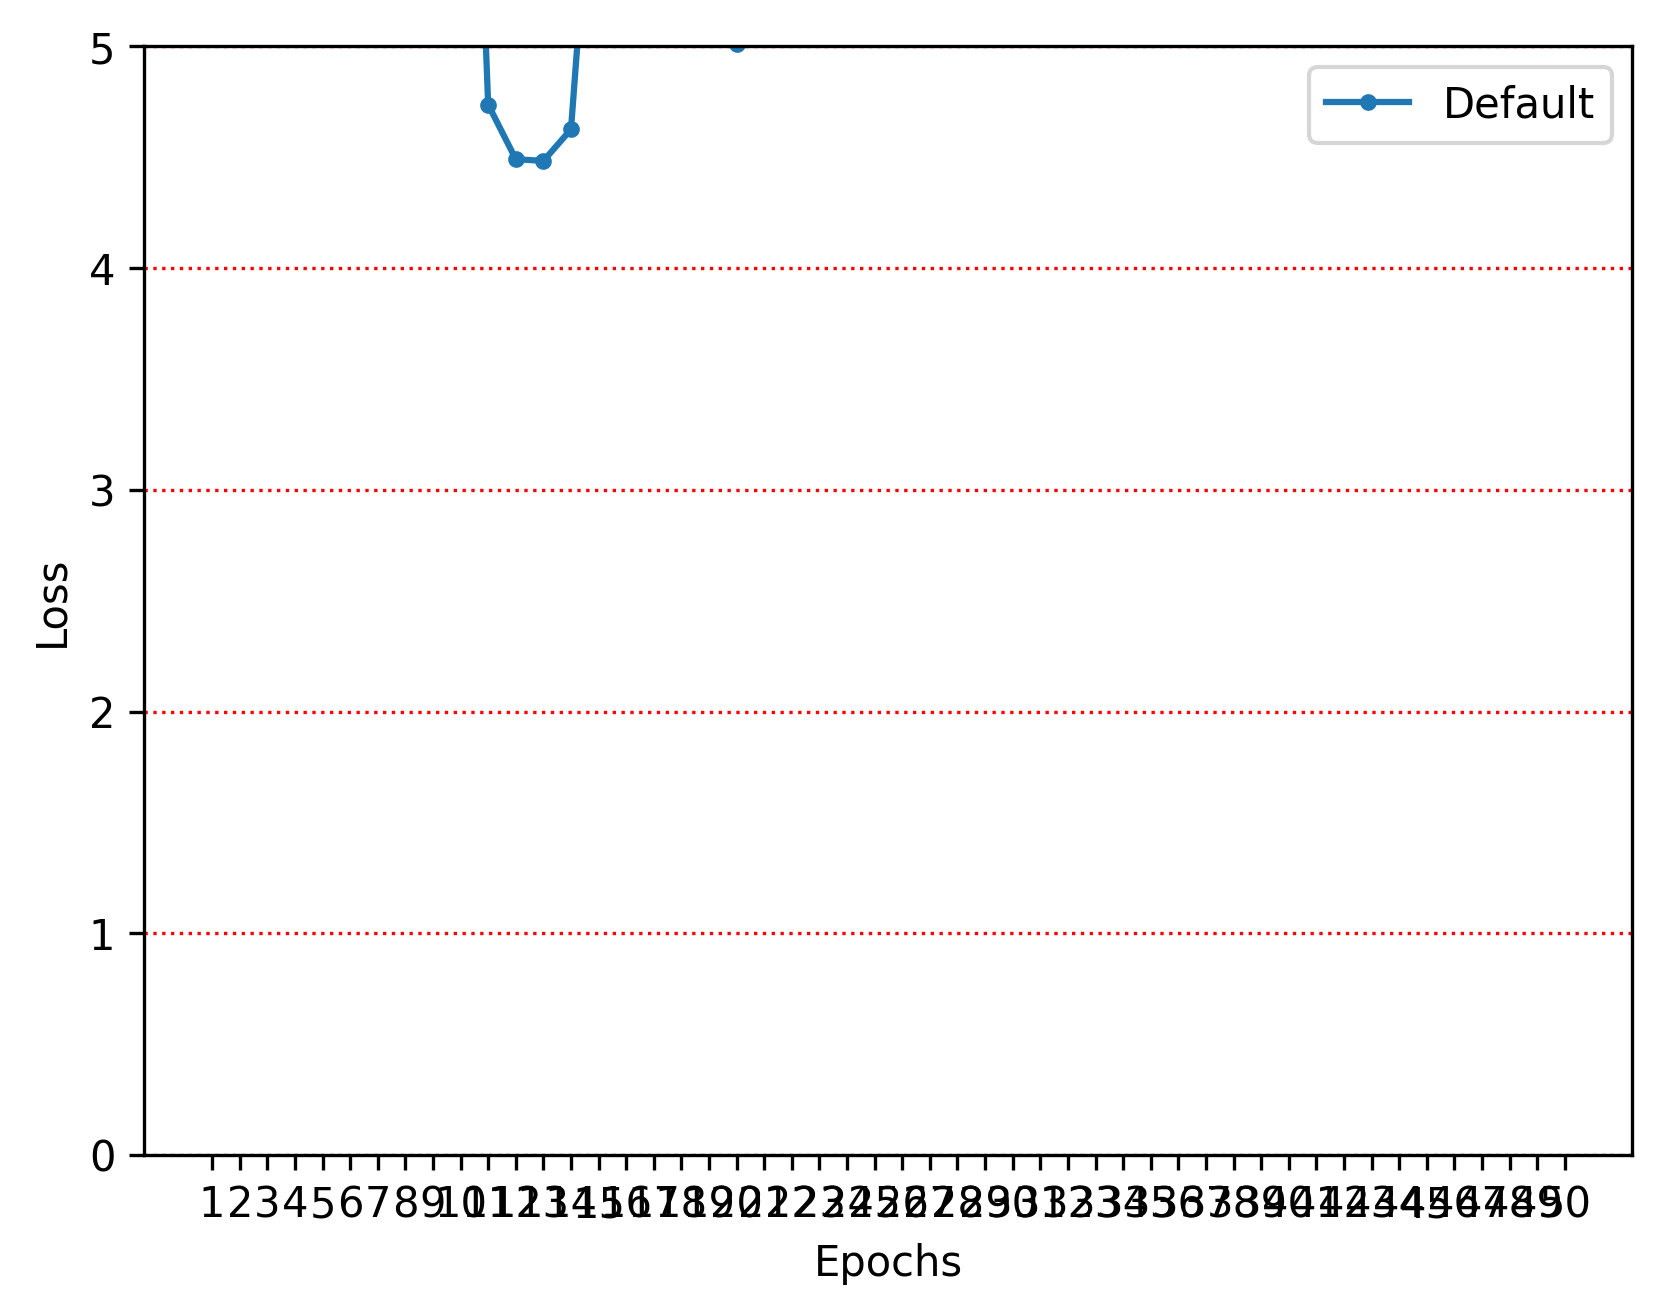
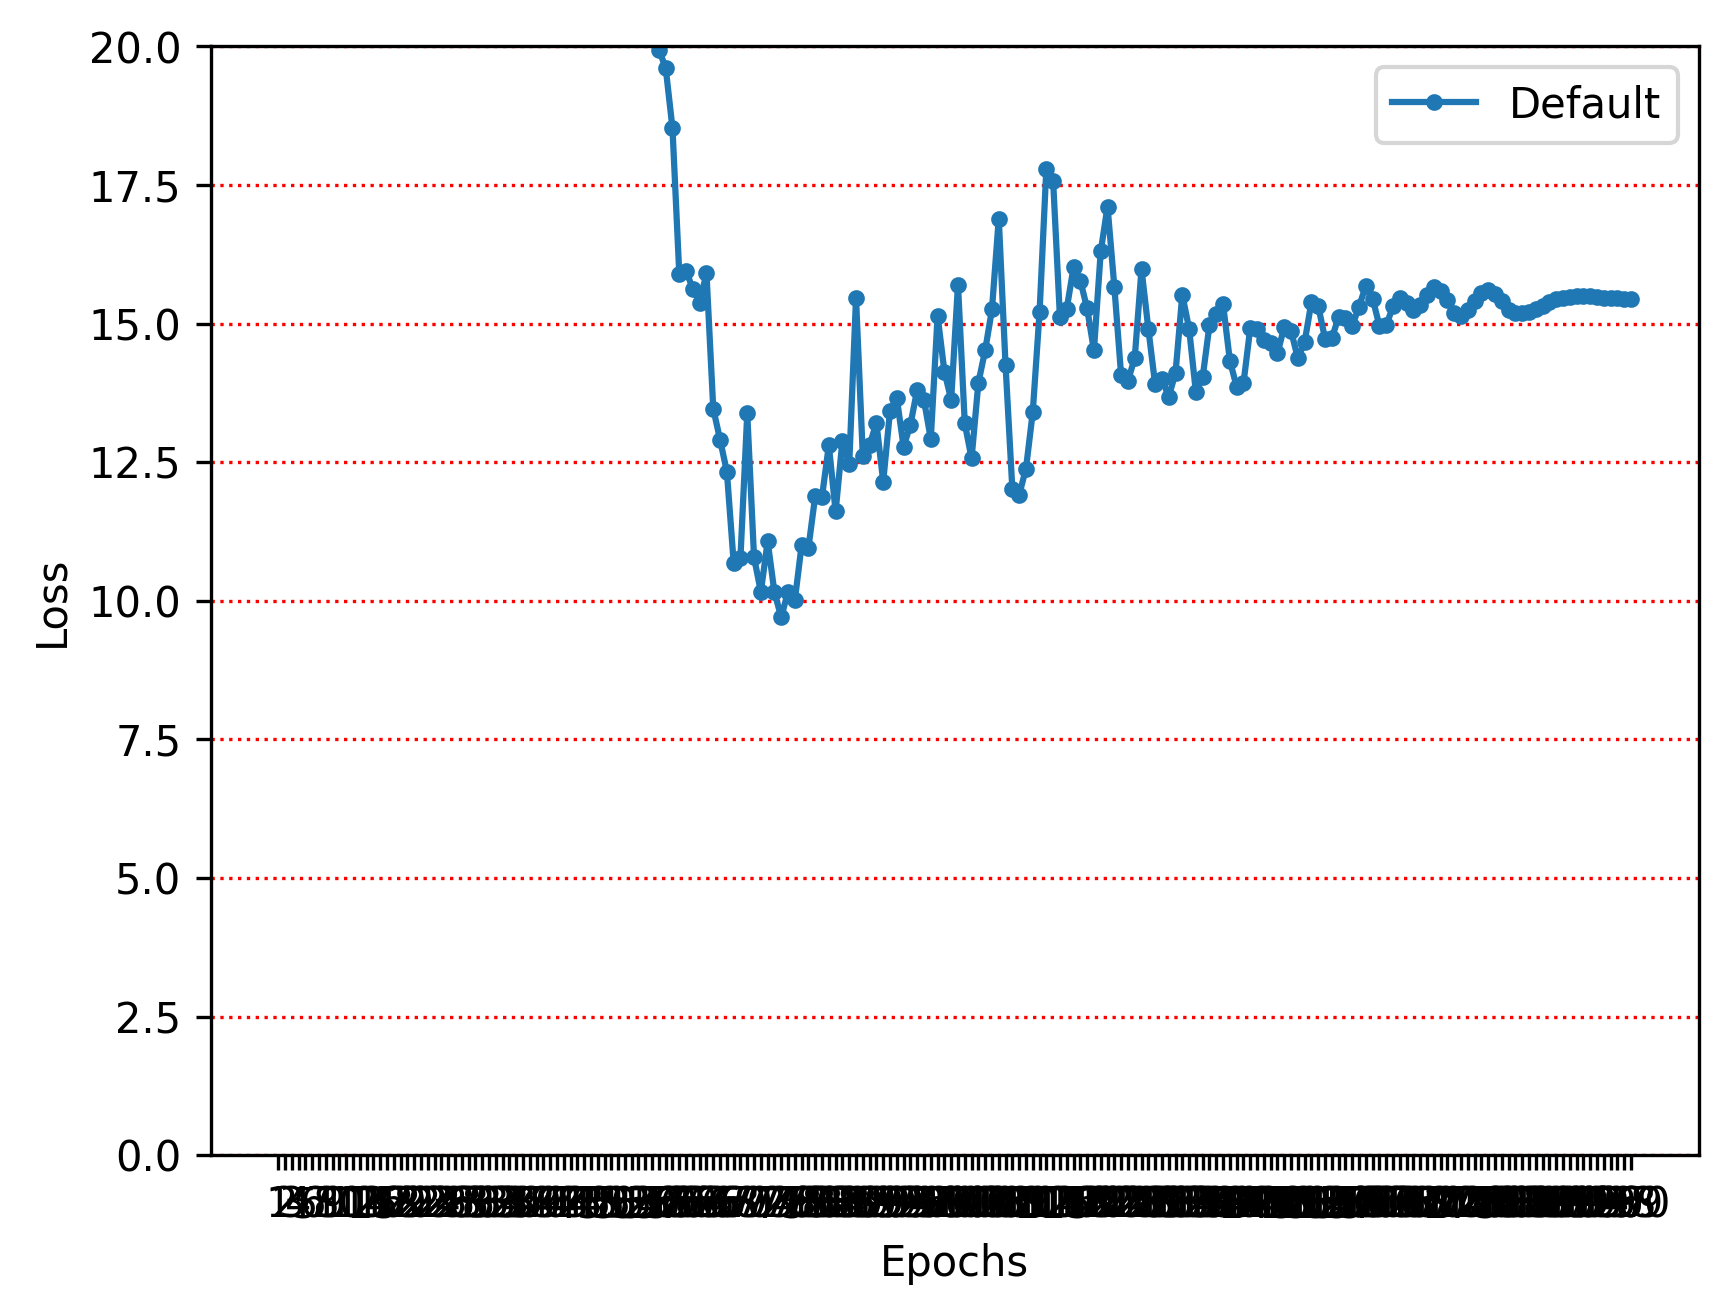
fix: BiLSTMに変えた時のエラー対処

diff --git a/ContinuousSignLanguage/one_dcnn_transformer_encoder/models/one_dcnn_transformer_encoder.py b/ContinuousSignLanguage/one_dcnn_transformer_encoder/models/one_dcnn_transformer_encoder.py
@@ -6,6 +6,7 @@ import one_dcnn_transformer_encoder.models.beam_search as beam_search
 import one_dcnn_transformer_encoder.models.BiLSTM as BiLSTM
 import torch.nn.functional as F
 import one_dcnn_transformer_encoder.models.decode as decode
+import one_dcnn_transformer_encoder.models.criterions as criterions
 
 
 class OnedCNNTransformerEncoderModel(nn.Module):
@@ -56,6 +57,15 @@ class OnedCNNTransformerEncoderModel(nn.Module):
             num_classes=num_classes,
             blank_idx=blank_idx,
         ).to("cpu")
+
+        self.loss = dict()
+        self.criterion_init()
+        self.loss_weights = {
+            'ConvCTC': 1.0,  # ConvCTCの損失に対する重み
+            'SeqCTC': 0.5,   # SeqCTCの損失に対する重み
+            'Dist': 0.1      # 知識蒸留（Distillation）損失に対する重み
+        }
+
 
         # self.cnn_model = cnn.create_simple_cnn2layer(in_channels=in_channels/2,mid_channels=cnn_out_channels, out_channels=cnn_out_channels, kernel_size=kernel_size, stride=stride, padding=padding, dropout_rate=dropout_rate, bias=bias)
 
@@ -276,7 +286,15 @@ class OnedCNNTransformerEncoderModel(nn.Module):
         conv_pred = self.decoder.decode(cnn_logit, updated_lgt, batch_first=False, probs=False)
         print(pred, "pred")
         print(conv_pred, "conv_pred")
-        return pred, conv_pred  
+        ret_dict = {
+            "feat_len": updated_lgt,
+            "conv_logits": cnn_logit,
+            "sequence_logits": outputs,
+            "conv_sents": conv_pred,
+            "recognized_sents": pred,
+        }
+        loss = self.criterion_calculation(ret_dict, tgt_feature, target_lengths)
+        return loss, outputs 
         # 各時間フレームでの予測を改善し、複数クラスの検出を促進
         # logits: (batch, T', num_classes)
         # attended_logits, _ = self.class_attention(logits, logits, logits)
@@ -365,6 +383,28 @@ class OnedCNNTransformerEncoderModel(nn.Module):
         #     )
         #     return decoded_sequences
 
+    def criterion_calculation(self, ret_dict, label, label_lgt):
+        loss = 0
+        for k, weight in self.loss_weights.items():
+            if k == 'ConvCTC':
+                loss += weight * self.loss['CTCLoss'](ret_dict["conv_logits"].log_softmax(-1),
+                                                      label.cpu().int(), ret_dict["feat_len"].cpu().int(),
+                                                      label_lgt.cpu().int()).mean()
+            elif k == 'SeqCTC':
+                loss += weight * self.loss['CTCLoss'](ret_dict["sequence_logits"].log_softmax(-1),
+                                                      label.cpu().int(), ret_dict["feat_len"].cpu().int(),
+                                                      label_lgt.cpu().int()).mean()
+            # elif k == 'Dist':
+            #     loss += weight * self.loss['distillation'](ret_dict["conv_logits"],
+            #                                                ret_dict["sequence_logits"].detach(),
+            #                                                use_blank=False)
+        return loss
+
+    def criterion_init(self):
+        self.loss['CTCLoss'] = torch.nn.CTCLoss(reduction='none', zero_infinity=False)
+        self.loss['distillation'] = criterions.SeqKD(T=8)
+        return self.loss
+
 
 class NormLinear(nn.Module):
     def __init__(self, in_dim, out_dim):
@@ -375,6 +415,7 @@ class NormLinear(nn.Module):
     def forward(self, x):
         outputs = torch.matmul(x, F.normalize(self.weight, dim=0))
         return outputs
+    
 
 
 # # ダミーデータの生成

diff --git a/ContinuousSignLanguage/one_dcnn_transformer_encoder/models/criterions.py b/ContinuousSignLanguage/one_dcnn_transformer_encoder/models/criterions.py
@@ -1,0 +1,29 @@
+import pdb
+import torch
+import torch.nn as nn
+import torch.nn.functional as F
+
+class SeqKD(nn.Module):
+    """
+    NLL loss with label smoothing.
+    """
+
+    def __init__(self, T=1):
+        super(SeqKD, self).__init__()
+        self.kdloss = nn.KLDivLoss(reduction='batchmean')
+        self.T = T
+
+    def forward(self, prediction_logits, ref_logits, use_blank=True):
+        start_idx = 0 if use_blank else 1
+        prediction_logits = F.log_softmax(prediction_logits[:, :, start_idx:]/self.T, dim=-1) \
+            .view(-1, ref_logits.shape[2] - start_idx)
+        ref_probs = F.softmax(ref_logits[:, :, start_idx:]/self.T, dim=-1) \
+            .view(-1, ref_logits.shape[2] - start_idx)
+        loss = self.kdloss(prediction_logits, ref_probs)*self.T*self.T
+        # mask_probs = F.softmax(ref_logits[:, :, 1:], dim=-1).view(-1, ref_logits.shape[2] - 1)
+        # mask = torch.max(mask_probs, dim=1)[0] > 0.5
+        # if torch.sum(mask) != 0:
+        #     loss = torch.sum(torch.sum(loss, dim=1) * mask) / torch.sum(mask)
+        # else:
+        #     loss = torch.sum(torch.sum(loss, dim=1) * mask)
+        return loss

diff --git a/ContinuousSignLanguage/one_dcnn_transformer_encoder/continuous_sign_language/modeling/functions.py b/ContinuousSignLanguage/one_dcnn_transformer_encoder/continuous_sign_language/modeling/functions.py
@@ -251,10 +251,10 @@ def val_loop(dataloader, model, device, return_pred_times=False, current_epoch=N
             # Preds do not include <start>, so skip that of tokens.
 
             tokens = tokens.tolist()
-            reference_text = [" ".join(map(str, seq)) for seq in tokens]
-            hypothesis_text = [" ".join(map(str, seq)) for seq in log_probs]
-            wer_score = wer(reference_text, hypothesis_text)
-            print(f"Batch {batch_idx}: WER: {wer_score:.10f}")
+            # reference_text = [" ".join(map(str, seq)) for seq in tokens]
+            # hypothesis_text = [" ".join(map(str, seq)) for seq in log_probs]
+            # wer_score = wer(reference_text, hypothesis_text)
+            # print(f"Batch {batch_idx}: WER: {wer_score:.10f}")
     print(f"Done. Time:{time.perf_counter()-start}")
     # Average loss.
     val_loss /= num_batches

diff --git a/ContinuousSignLanguage/one_dcnn_transformer_encoder/continuous_sign_language/plots.py b/ContinuousSignLanguage/one_dcnn_transformer_encoder/continuous_sign_language/plots.py
@@ -27,7 +27,7 @@ def val_loss_plot(val_losses_default, eval_every_n_epochs):
     plt.plot(xs_val, val_losses_default, label="Default", marker=".")
     plt.xlabel("Epochs")
     plt.ylabel("Loss")
-    plt.ylim([0.0, 5.0])
+    plt.ylim([0.0, 20.0])
     plt.xticks(np.arange(1, len(val_losses_default)+1, eval_every_n_epochs))
     plt.legend()
     save_path = os.path.join(config.plot_save_dir, config.plot_loss_val_save_path)
@@ -48,7 +48,7 @@ def train_val_loss_plot(train_losses_default, val_losses_default, eval_every_n_e
     
     plt.xlabel("Epochs")
     plt.ylabel("Loss")
-    plt.ylim([0.0, 5.0])
+    plt.ylim([0.0, 20.0])
     plt.legend()
     save_path = os.path.join(config.plot_save_dir, config.plot_loss_train_val_save_path)
     plt.savefig(save_path, dpi=300, bbox_inches='tight')

diff --git a/ContinuousSignLanguage/one_dcnn_transformer_encoder/continuous_sign_language/modeling/config.py b/ContinuousSignLanguage/one_dcnn_transformer_encoder/continuous_sign_language/modeling/config.py
@@ -26,7 +26,7 @@ batch_first = True
 #学習パラメータ
 label_smoothing = 0.1
 lr = 3e-4
-epochs = 50
+epochs = 200
 eval_every_n_epochs = 1
 
 #モデルの保存
